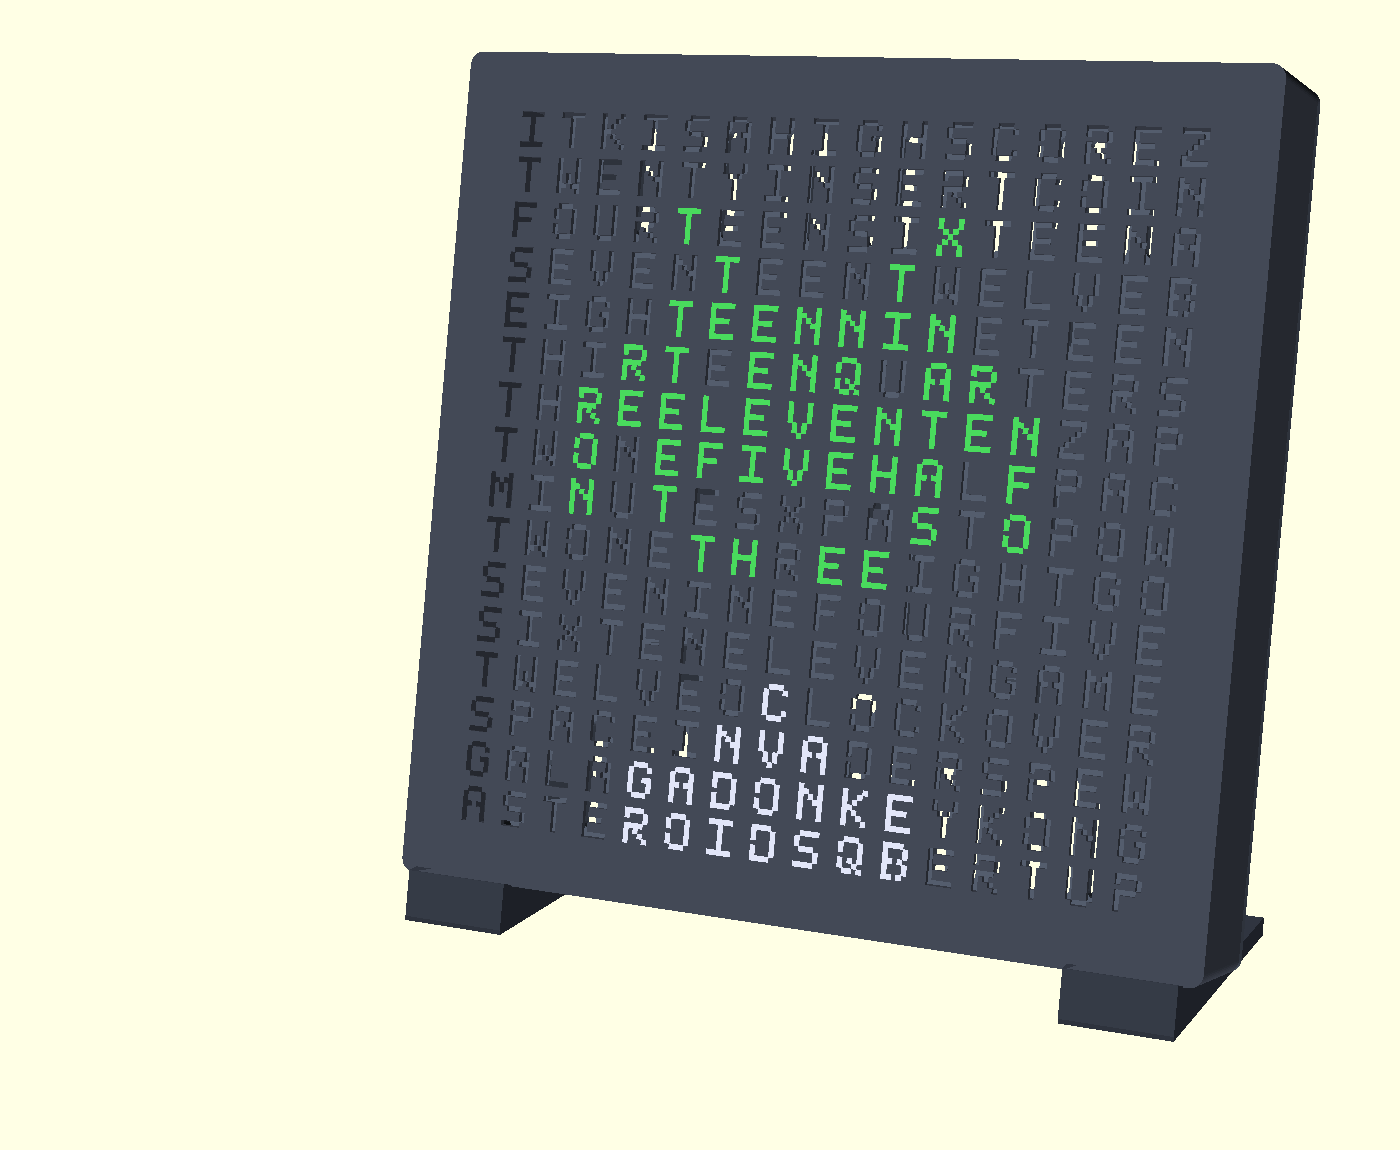
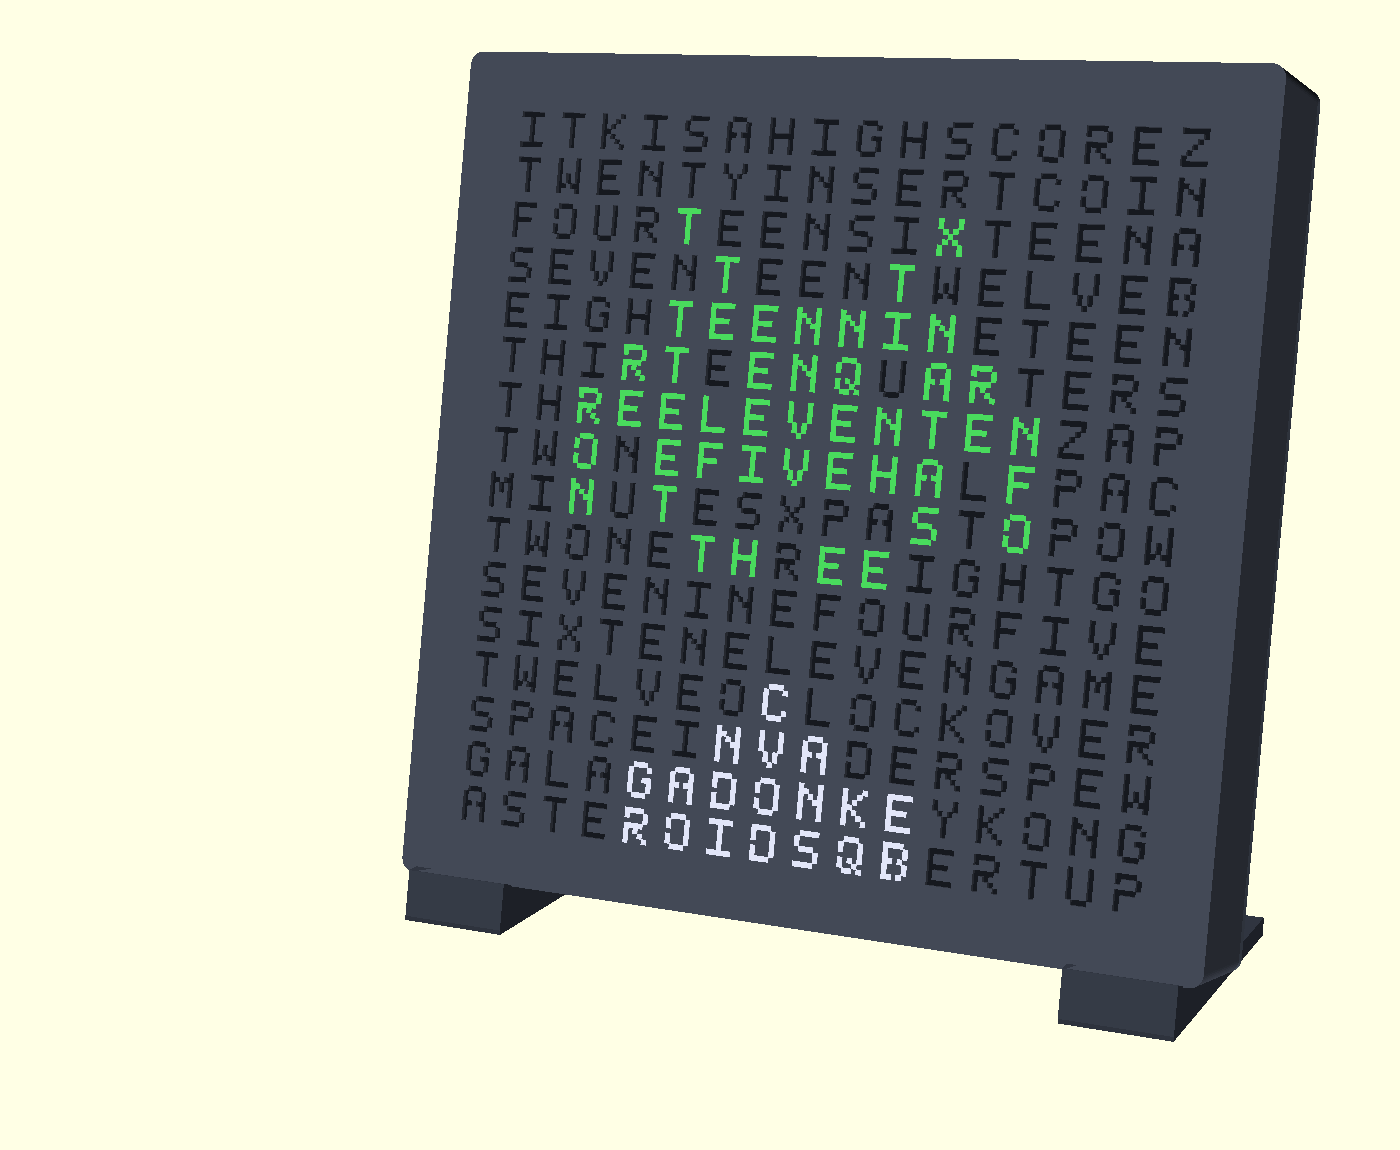
Block see-through stencil voids in assembly renders
The renders let the background show through unlit letters and out the
back vents; the real device has the diffuser/panel stack there. Add a
preview-only near-black panel blank behind the stencil in device() so
unlit letters read dark, as built. Re-rendered both README images.

diff --git a/DEVLOG.md b/DEVLOG.md
@@ -582,3 +582,11 @@ openscad -o renders/assembly_invaders.png --imgsize=1400,1150 \
 renderer, which is what the colour() calls need anyway. The "time"
 frame shows 4:23 — IT IS TWENTY THREE MINUTES PAST FOUR, the same
 per-minute example the README leads with.
+
+First cut of these renders let the background shine straight through
+the unlit voids and out the back vents — assembly() doesn't model the
+diffuser/panel drop-ins, so the stencil was open clean through, which
+the built device never is. `device()` now also draws a near-black
+`panel_blank_color` slab filling the panel opening behind the stencil
+(preview-only, like the rest), so unlit letters read near-black the
+way they do against the real (dark, unlit) diffuser stack.
